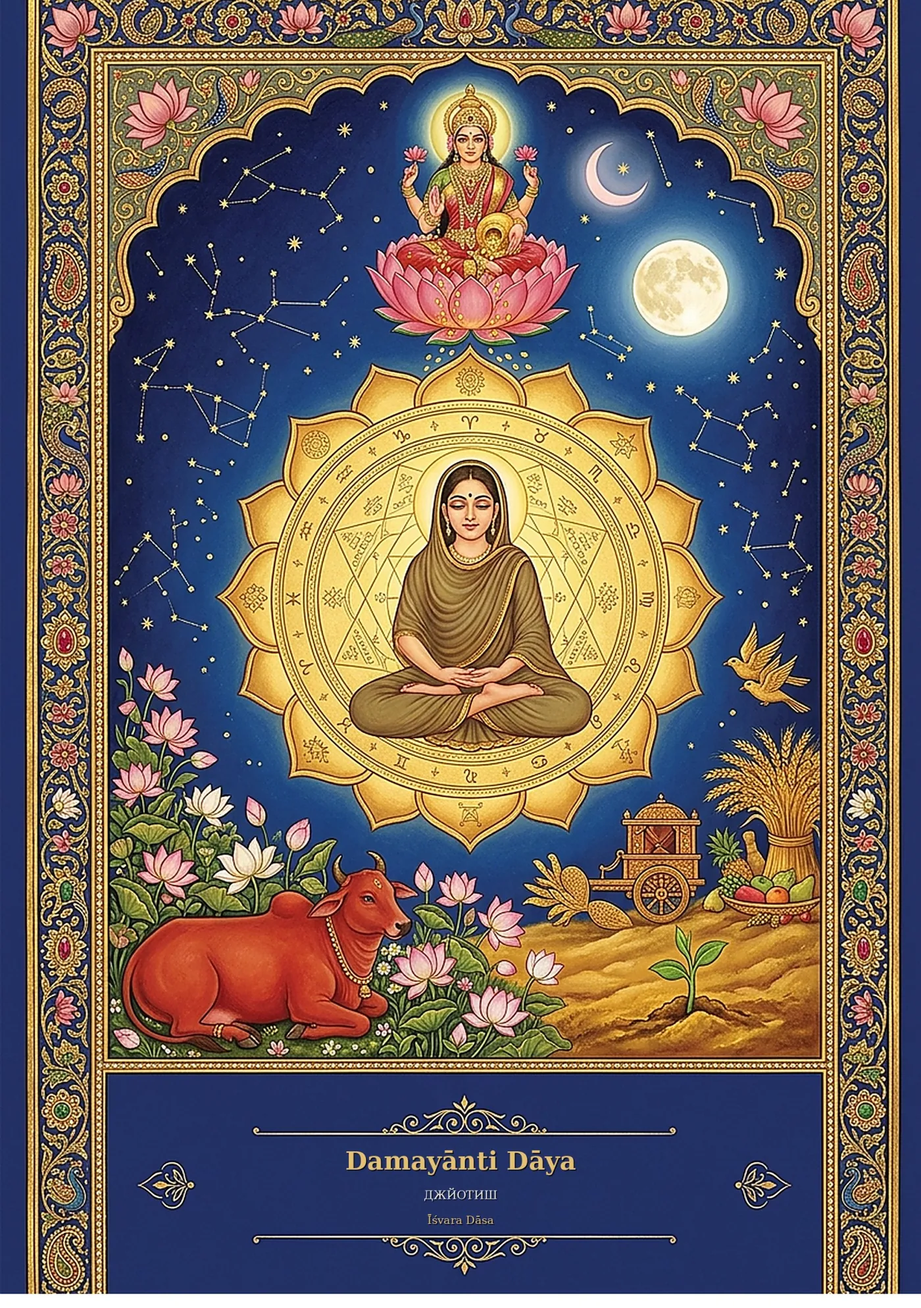
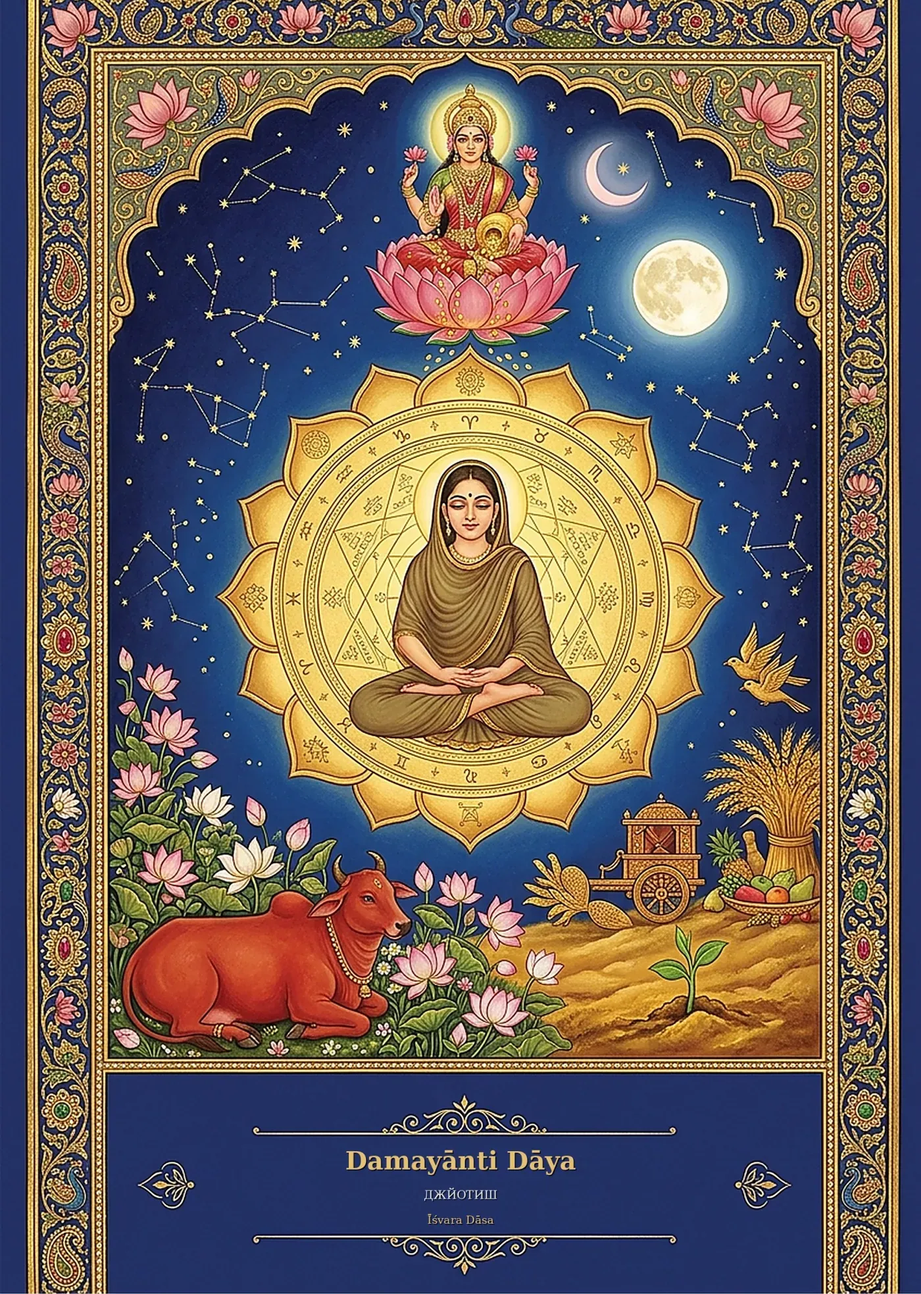
Обложка без белой полосы внизу во всех местах
У картинок обложки (страница 1, обложка, обложка HD) обрезаны белые
строки внизу прямо в файлах.

Claude-Session: https://claude.ai/code/session_01PrEn6prVikshihWw2jkL2v

diff --git a/kniga/index.html b/kniga/index.html
@@ -23,7 +23,7 @@
 <link rel="preconnect" href="https://fonts.googleapis.com">
 <link rel="preconnect" href="https://fonts.gstatic.com" crossorigin>
 <link href="https://fonts.googleapis.com/css2?family=Golos+Text:wght@400;500;600;700&family=Spectral:ital,wght@0,300;0,400;0,500;0,600;1,300;1,400&display=swap" rel="stylesheet">
-<link rel="stylesheet" href="kniga.css?v=20261053">
+<link rel="stylesheet" href="kniga.css?v=20261054">
 <link rel="alternate" hreflang="ru" href="https://isvaradasa.com/kniga/">
 <link rel="alternate" hreflang="en" href="https://isvaradasa.com/en/personal-book/">
 <link rel="alternate" type="text/plain" title="Справка для нейросетей" href="https://isvaradasa.com/llms.txt">
@@ -203,7 +203,7 @@
         <div class="book-float">
           <div class="book" id="book">
             <div class="bf bf-front">
-              <img src="../img/kniga-cover.webp" width="800" height="1135" alt="Обложка персональной книги «Дамаянти Дайя»">
+              <img src="../img/kniga-cover.webp" width="800" height="1123" alt="Обложка персональной книги «Дамаянти Дайя»">
               <div class="cover-name" id="cover-name" aria-hidden="true"></div>
               <span class="glint" aria-hidden="true"></span>
             </div>
@@ -310,7 +310,7 @@
         <button class="fan fan2" type="button" data-reader="0" aria-label="Открыть фрагмент книги">
           <img class="p-left" src="../img/kniga/stranica-11.webp" width="1000" height="1419" loading="lazy" alt="">
           <img class="p-mid" src="../img/kniga/stranica-03.webp" width="1000" height="1419" loading="lazy" alt="">
-          <img class="p-front" src="../img/kniga-cover.webp" width="800" height="1135" loading="lazy" alt="">
+          <img class="p-front" src="../img/kniga-cover.webp" width="800" height="1123" loading="lazy" alt="">
           <span class="fan-tag"><svg width="14" height="14" viewBox="0 0 24 24" aria-hidden="true"><path d="M2 5c3-1 6-1 10 2 4-3 7-3 10-2v14c-3-1-6-1-10 2-4-3-7-3-10-2z" fill="none" stroke="currentColor" stroke-width="1.8" stroke-linejoin="round"/><path d="M12 7v14" stroke="currentColor" stroke-width="1.8"/></svg>12 страниц</span>
         </button>
         <div class="tv-text">

diff --git a/kniga/kniga.css b/kniga/kniga.css
@@ -849,3 +849,4 @@ body.modal-open{overflow:hidden}
 .fan2 .fan-tag{left:8%;bottom:3%}
 @media (prefers-reduced-motion:reduce){.js .fan2.rv:not(.in) .p-mid{transform:rotate(-2deg)}}
 .fan2 .p-mid{top:-3%;left:30%}
+.bf-front img{height:100%}
